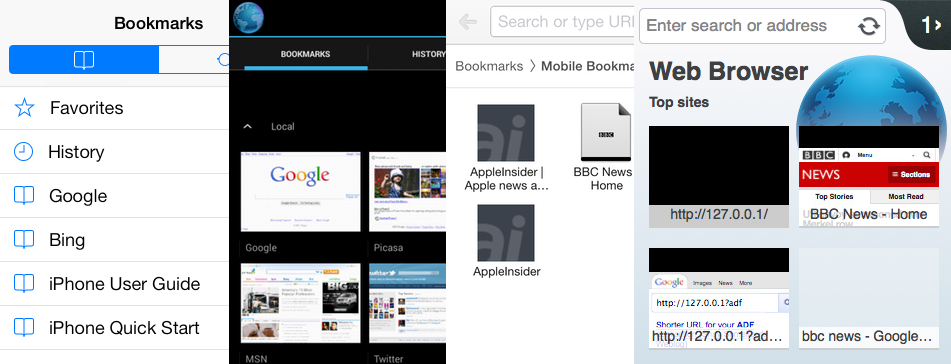
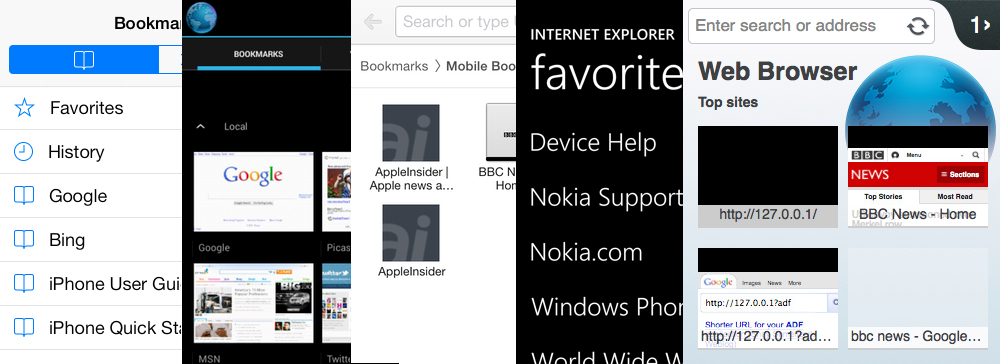
Add IE10/WP8 Info

diff --git a/index.html b/index.html
@@ -137,7 +137,7 @@
         </p>
         <figure>
           <img src="images/mobile_bookmarks.jpg" alt=
-          "From left to right, the bookmarking facilities of Safari on iOS, Android 4.3 stock browser, Chrome on iOS, and Firefox OS's default browser.">
+          "From left to right, the bookmarking facilities of Safari on iOS, Android 4.3 stock browser, Chrome on iOS, Internet Explorer 10 on Windows Phone 8, and Firefox OS's default browser.">
           <figcaption>
             The bookmarking facilities of mobile browsers closely resemble
             those of desktop-browsers - providing both a traditional list of
@@ -163,7 +163,9 @@
           the user the option to bookmark the page. Once bookmarked, the site
           is added to a bookmarks tab (not shown below), which, unlike other
           mobile browsers, does not provide a means to manipulate the metadata
-          of the bookmark.
+          of the bookmark. On Windows Phone the user can "add favorite". It  
+          does not allow the user to choose the location when adding a site, 
+          however, IE Mobile has a separated option called, "Pin to start".
         </p>
         <table border="1">
           <caption>
@@ -179,6 +181,9 @@
             <th scope="col">
               Firefox OS 1.1
             </th>
+            <th scope="col">
+              Windows Phone 8 IE 10
+            </th>
           </tr>
           <tr>
             <td>
@@ -189,6 +194,9 @@
             </td>
             <td>
               <img src="images/addtohomescreen/bookmark_fxos.png" alt=".">
+            </td>
+            <td>
+              <img src="images/addtohomescreen/bookmark_wp.png" alt=".">
             </td>
           </tr>
         </table>
@@ -356,7 +364,7 @@
       <figure>
         <img src="images/add_to_apps.png" alt="">
         <figcaption>
-          In Windows 8, "adding a site to apps" makes a website appear amogst
+          In Windows 8, "adding a site to apps" makes a website appear amongst
           other apps. Once added, the launch icon is treated identically from
           other applications. Once clicked, the web application is opened in
           Internet Explorer.
@@ -377,6 +385,14 @@
           Windows 8 homescreen. On the right, the result of pinning a site is
           shown. Note that the content shown in the tile comes from an RSS
           feed, and not from the HTML of the site itself.
+        </figcaption>
+      </figure>
+      <figure>
+        <img src="images/pin_wp.png" alt="Windows Phone Pin to Start">
+        <figcaption>
+          Windows Phone 8 comes with the "Pin to Start" feature as well, however, 
+          the mobile version only displays a static thumbnail of the web site, and 
+          the metadata for the "live tile" is not available.
         </figcaption>
       </figure>
       <p>
